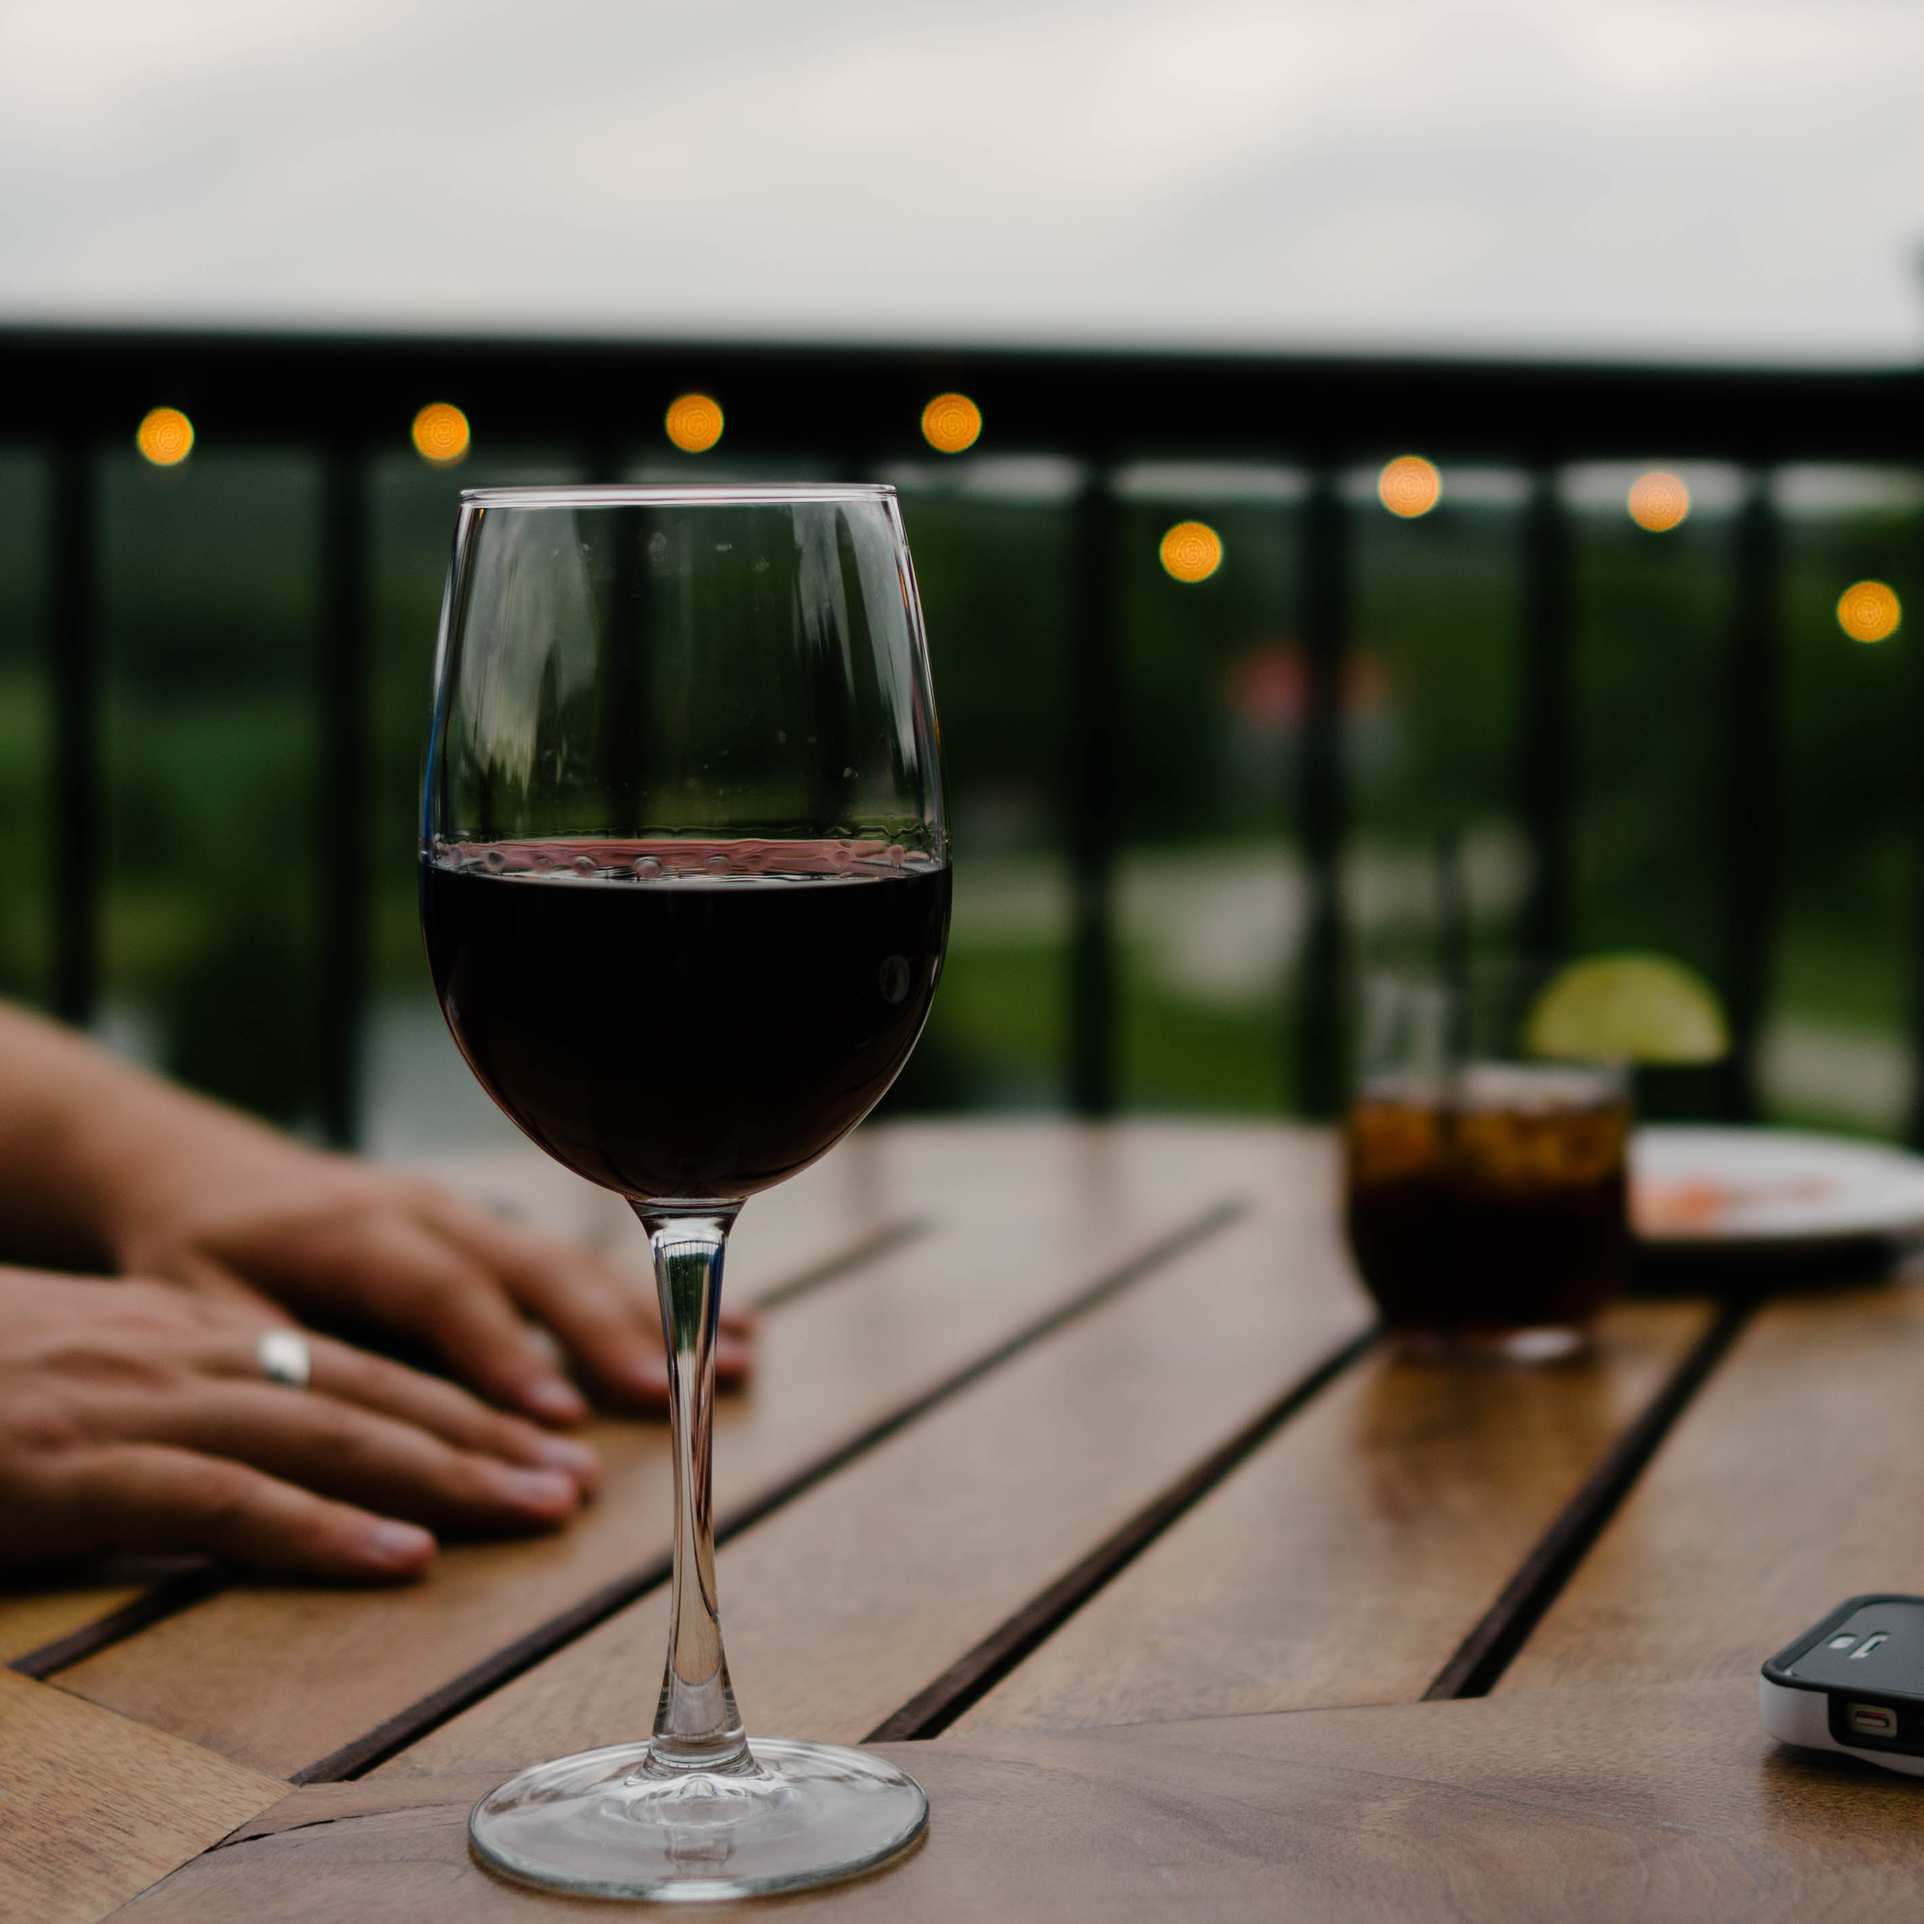
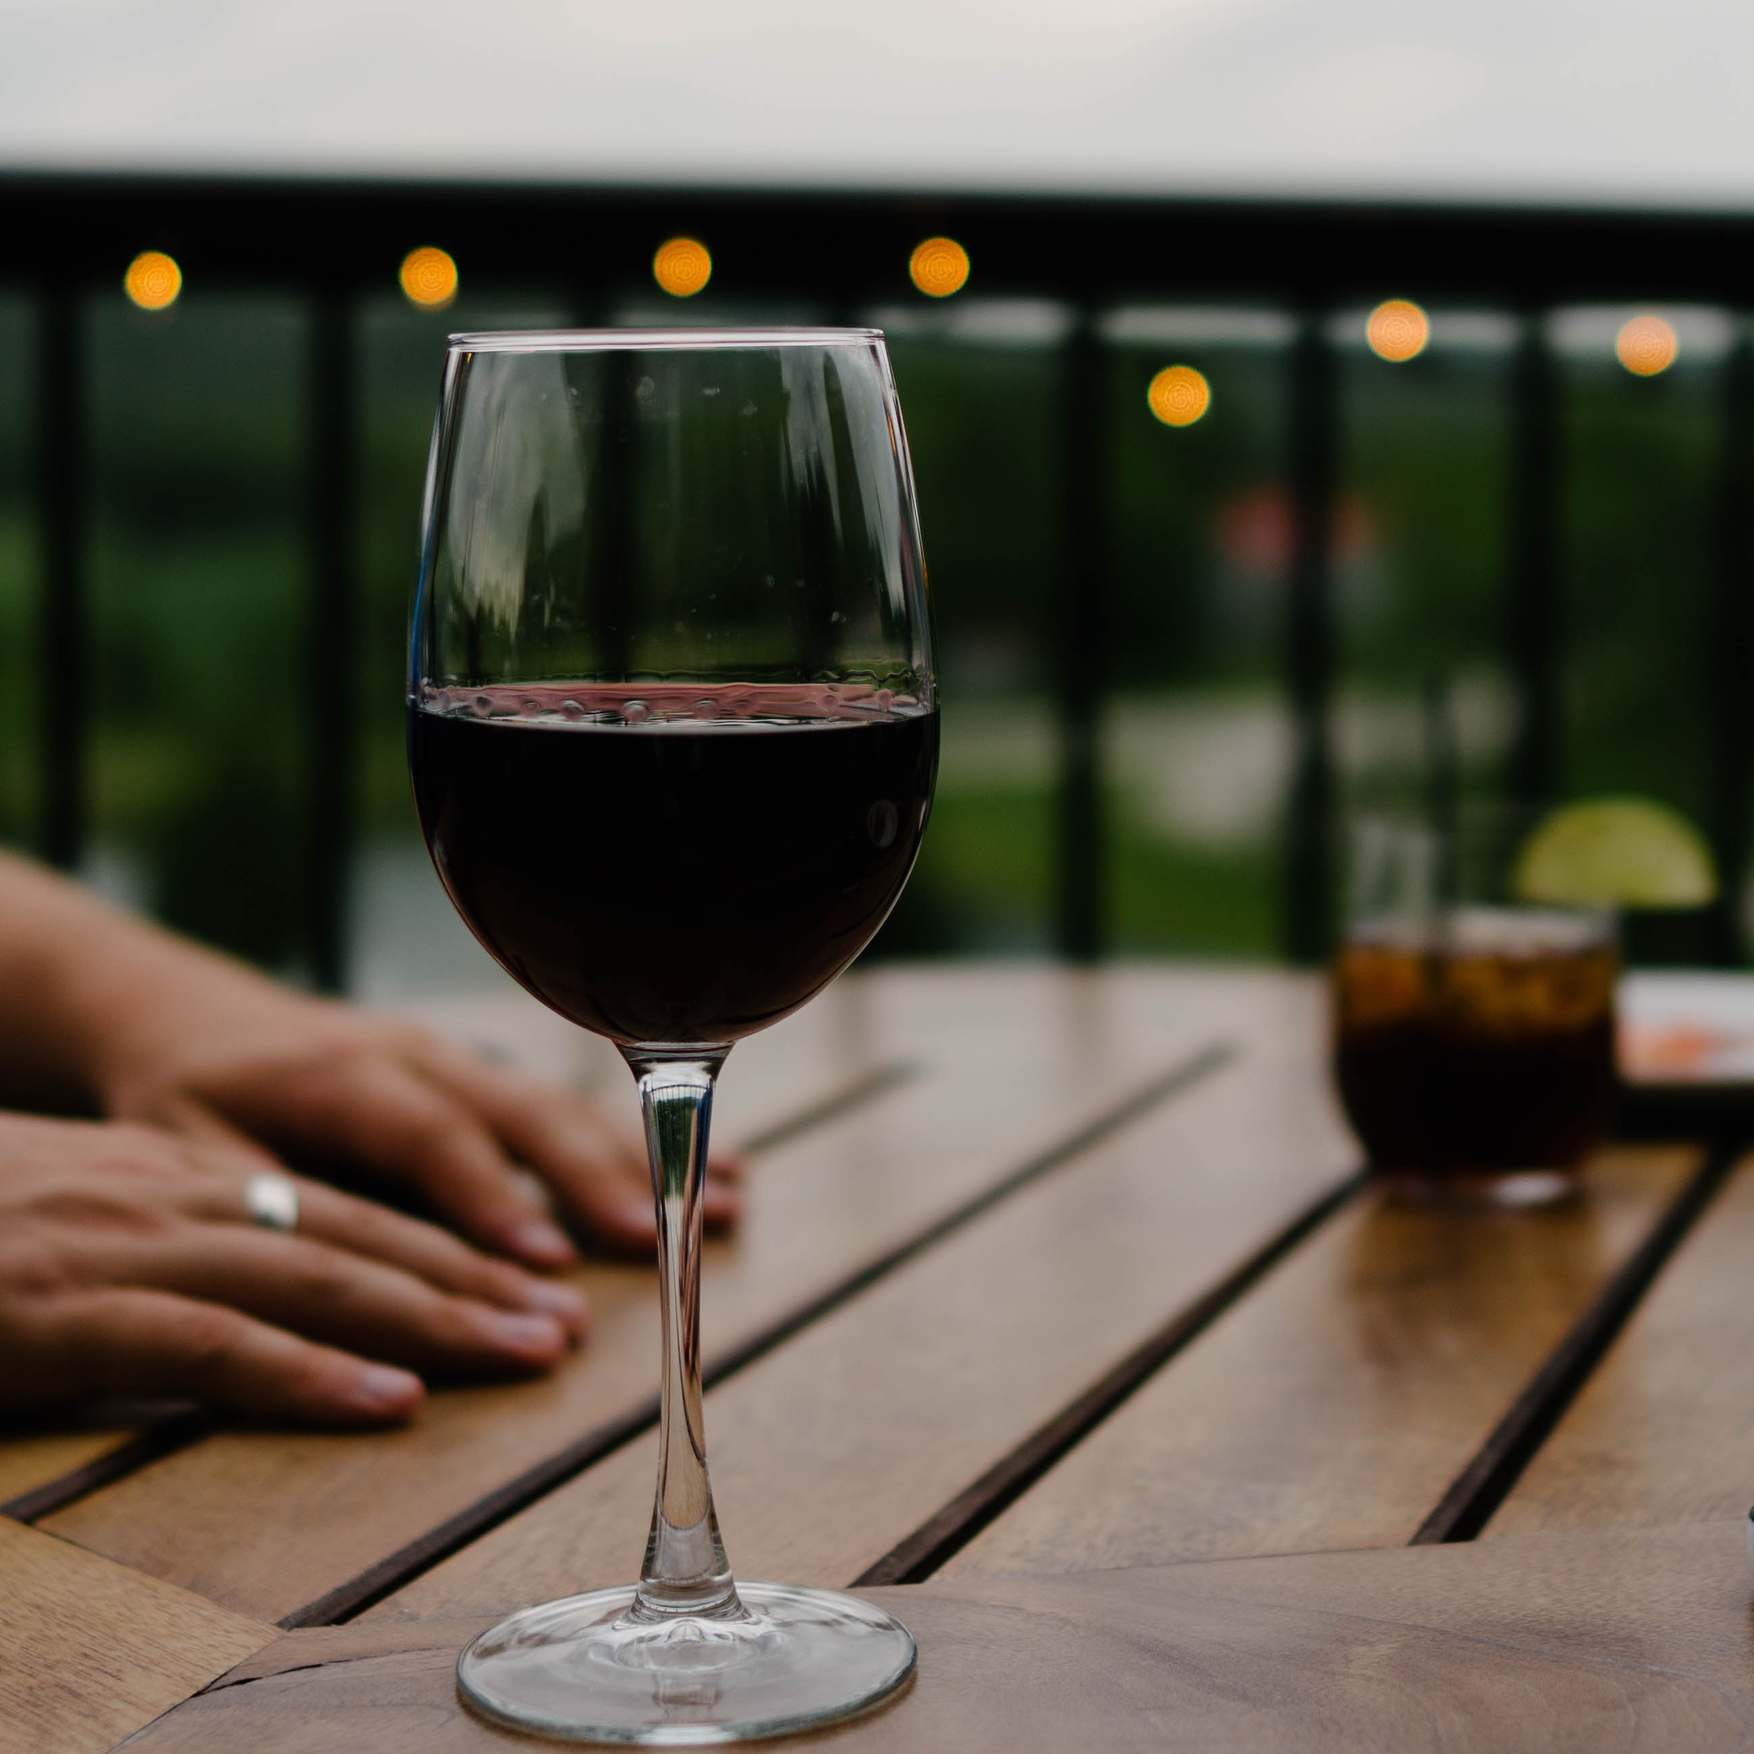
Squared all images

diff --git a/food_blog_files/shepherds-pie.html b/food_blog_files/shepherds-pie.html
@@ -49,6 +49,7 @@
 			<div class="row">
 				<div class="left-column">
 					<div class="col-sm-6">
+            <div class="aligning-text">
 						<h2>Ingredients</h2>
 						<ul>
 							<li>1 tbsp olive oil</li>
@@ -64,13 +65,14 @@
 							<li>25g butter</li>
 							<li>85g vegetarian mature cheddar, grated</li>
 						</ul>
+          </div>
 					</div>
 				</div>
 
 				<!-- Photo 1 -->
 				<div class="right-column">
 					<div class="col-sm-6">
-						<img src="images/shep-pie.jpg" class="img-responsive">
+						<img src="images/shep-pie.jpg" alt="image of shepherd's pie" class="img-responsive">
 					</div>
 				</div>
 			</div>
@@ -79,13 +81,14 @@
 			<div class="row">
 				<div class="left-column">
 					<div class= "col-sm-6">
-						<img src="images/veg-box-shepherds-pie.jpg" class="img-responsive">
+						<img src="images/veg-box-shepherds-pie.jpg" alt="image of shepherd's pie" class="img-responsive">
 					</div>
 				</div>
 
 				<!-- Method -->
 				<div class="col-sm-6">
 					<div class="right-column">
+            <div class="aligning-text">
 						<h2>Method</h2>
 						<ol>
 							<li>
@@ -101,6 +104,7 @@
 							</li>
 						</ol>
 					</div>
+        </div>
 				</div>
 			</div>
 
@@ -108,12 +112,14 @@
       <div class="row">
         <div class="left-column">
           <div class="col-sm-6">
-            <h2>Variations</h2>
-            <br/>
+            <div class="aligning-text">
+              <h2>Variations</h2>
+              <br/>
               <p>To stick closer to the traditional Shepherd's pie, use regular potatoes instead of sweet potatoes for the mashed topping.  These will need slightly longer to boil.</p>
               <br>
               <p> If you want to do a meateaters' version of Shepherd's Pie, see BBC Good Food's recipe <a href="http://bbcgoodfood.com/recipes/9644/nofuss-shepherds-pie"> here. </a> </p>
               <br>
+            </div>
           </div>
         </div>
 
@@ -121,8 +127,8 @@
     <div class-"row">
       <div class="right-column">
         <div class="col-sm-6">
-          <img src="images/wine.jpg" alt="shep-pie" class="img-responsive">
-          <div class="overlay"> <div class="text">Enjoy with a glass of red wine!</div></div>
+            <img src="images/wine.jpg" alt="image of glass of red wine" class="img-responsive">
+            <div class="overlay"> <div class="text">Enjoy with a glass of red wine!</div></div>
         </div>
       </div>
     </div>

diff --git a/food_blog_files/switzerland.html b/food_blog_files/switzerland.html
@@ -65,7 +65,7 @@
         <!-- Photo 1 -->
         <div class="right-column">
           <div class="col-sm-6">
-            <img src="images/more_potatoes.jpg" class="img-responsive">
+            <img src="images/more_potatoes.jpg" alt="image of potatoes" class="img-responsive">
           </div>
         </div>
       </div>
@@ -74,7 +74,7 @@
       <div class="row">
         <div class="left-column">
           <div class= "col-sm-6">
-            <img src="images/rosti-final.jpg" class="img-responsive">
+            <img src="images/rosti-final.jpg" alt="image of rösti" class="img-responsive">
           </div>
         </div>
 
@@ -116,7 +116,7 @@
         <div class-"row">
           <div class="right-column">
             <div class="col-sm-6">
-              <img src="images/mountain-walks.jpg" alt="shep-pie" class="img-responsive">
+              <img src="images/mountain-walks.jpg" alt="image of man on a mountain" class="img-responsive">
               <div class="overlay"> <div class="text">Rösti is best enjoyed after climbing a mountain!</div></div>
             </div>
           </div>

diff --git a/food_blog_files/css/recipe.css b/food_blog_files/css/recipe.css
@@ -149,6 +149,10 @@ p {
 	background-color: transparent;
 }
 
+.aligning-text {
+		/*HELP*/
+}
+
 /* HOVER OVER */
 .overlay {
  position: absolute;
